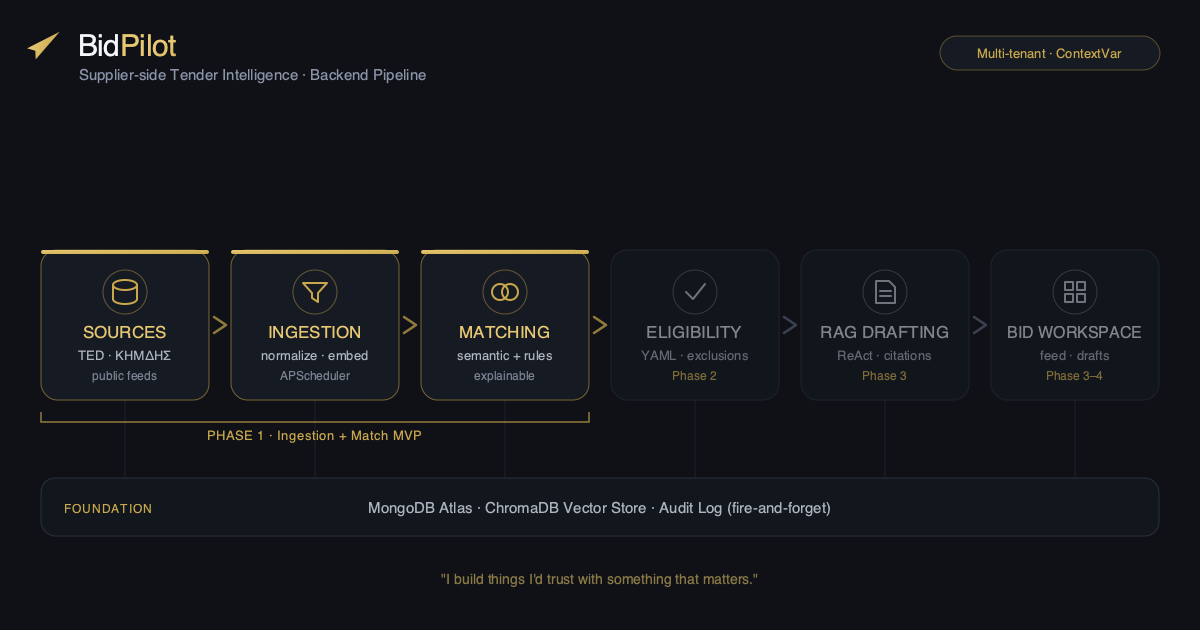
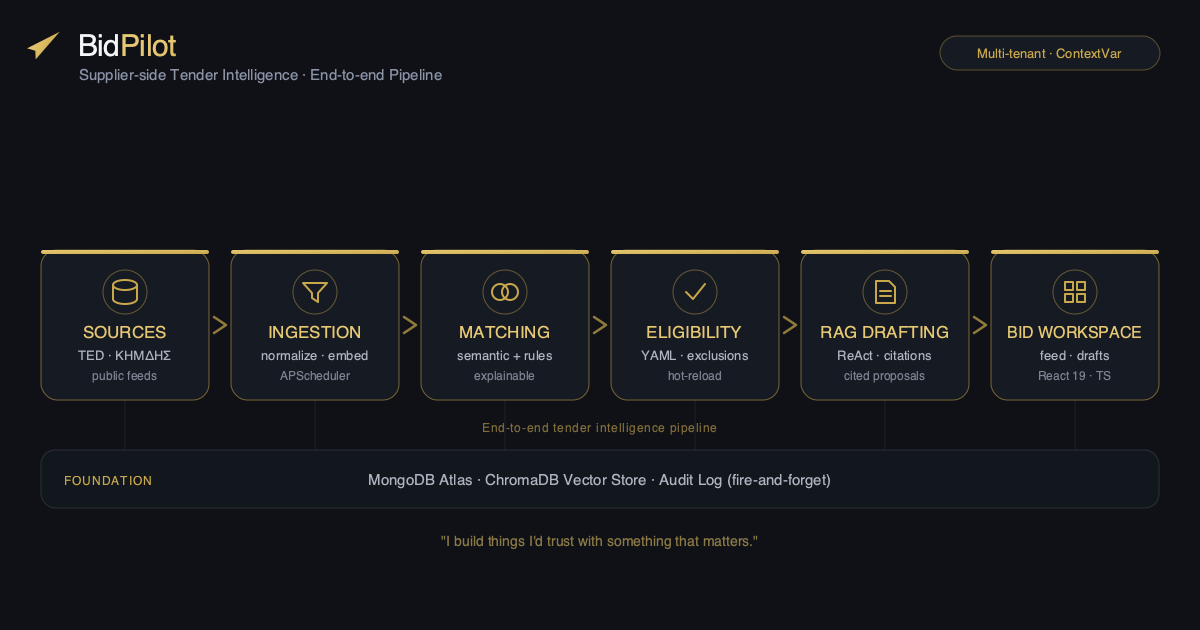
🖼️ Update graphical abstract (all phases active) and mark frontend complete in roadmap

diff --git a/README.md b/README.md
@@ -387,7 +387,7 @@ bidpilot/
 - Phase 2 - Eligibility Engine + CI (Complete)
 - Phase 3 - RAG Bid Drafting (ReAct agent, requirement extraction, gap analysis, cited drafts) (Complete)
 - Phase 4 - Award Analytics (ΔΙΑΥΓΕΙΑ ingestion, pricing stats, win rates, trend series) (Complete)
-- Frontend - React 19 / TS / Vite / Tailwind v4 (Tender Feed + Bid Workspace) (Coming soon)
+- Frontend - React 19 / TS / Vite / Tailwind v4 (Tender Feed + Bid Workspace + Analytics) (Complete)
 
 ---
 